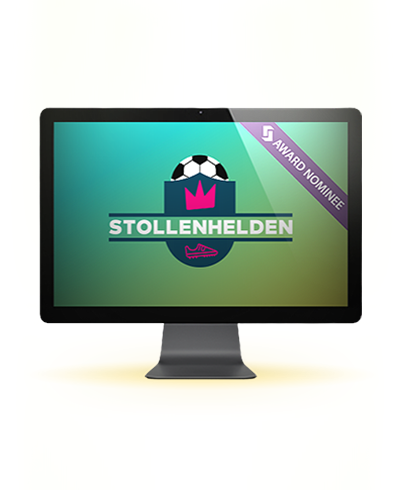
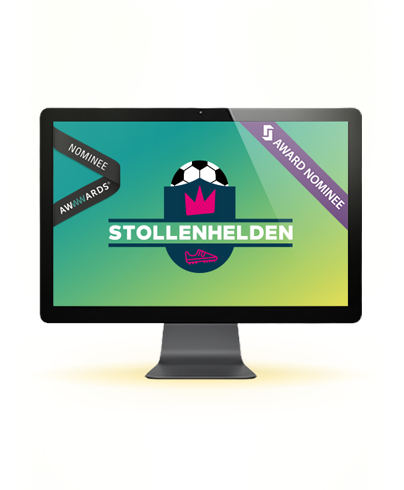
adds new content, css awards and stuff

Changed region(s): [[0.1188, 0.2449, 0.8614, 0.6429]]

diff --git a/source/stylesheets/site.css.scss b/source/stylesheets/site.css.scss
@@ -670,6 +670,22 @@ header {
     .object.show-desktop { top: -40px; right: 604px; }
   }
 } 
+.slide-pawlak.nominee{
+  
+  h1 { color: #FFF;  }
+  h1 span { color: #FFF;  }
+  .client { color: red;  }
+  .intro { color: red;  }
+  .copy { color: #FFF;  }
+  .object.show-desktop { top: 10px; right: 510px; }
+  .object.show-mobile { margin-left: -200px; top: 0;  }
+  @media all and (min-width: 970px) and (max-width: 1229px )  {
+    .object.show-desktop { top: -18px; right: 790px; width: 550px; }
+  }
+  @media all and (min-width: 1230px) {
+    .object.show-desktop { top: -40px; right: 764px; }
+  }
+} 
 
 
 
